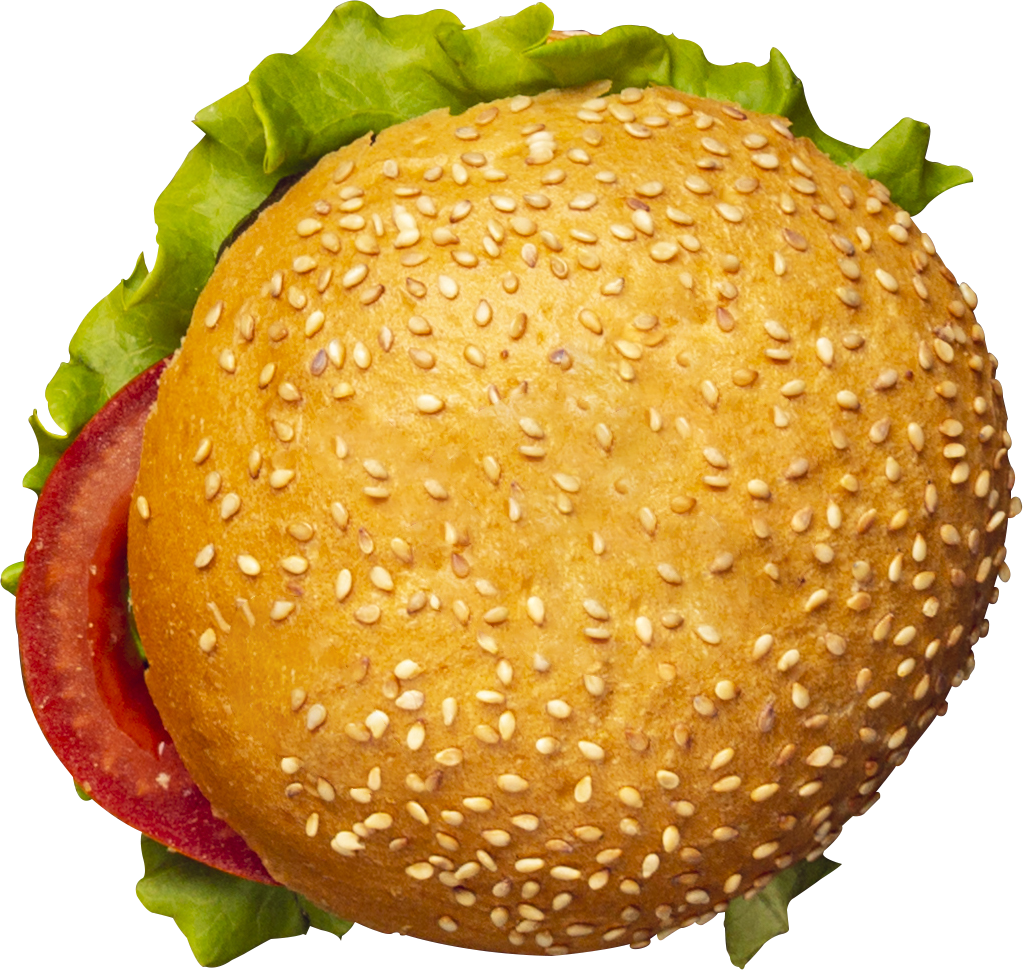
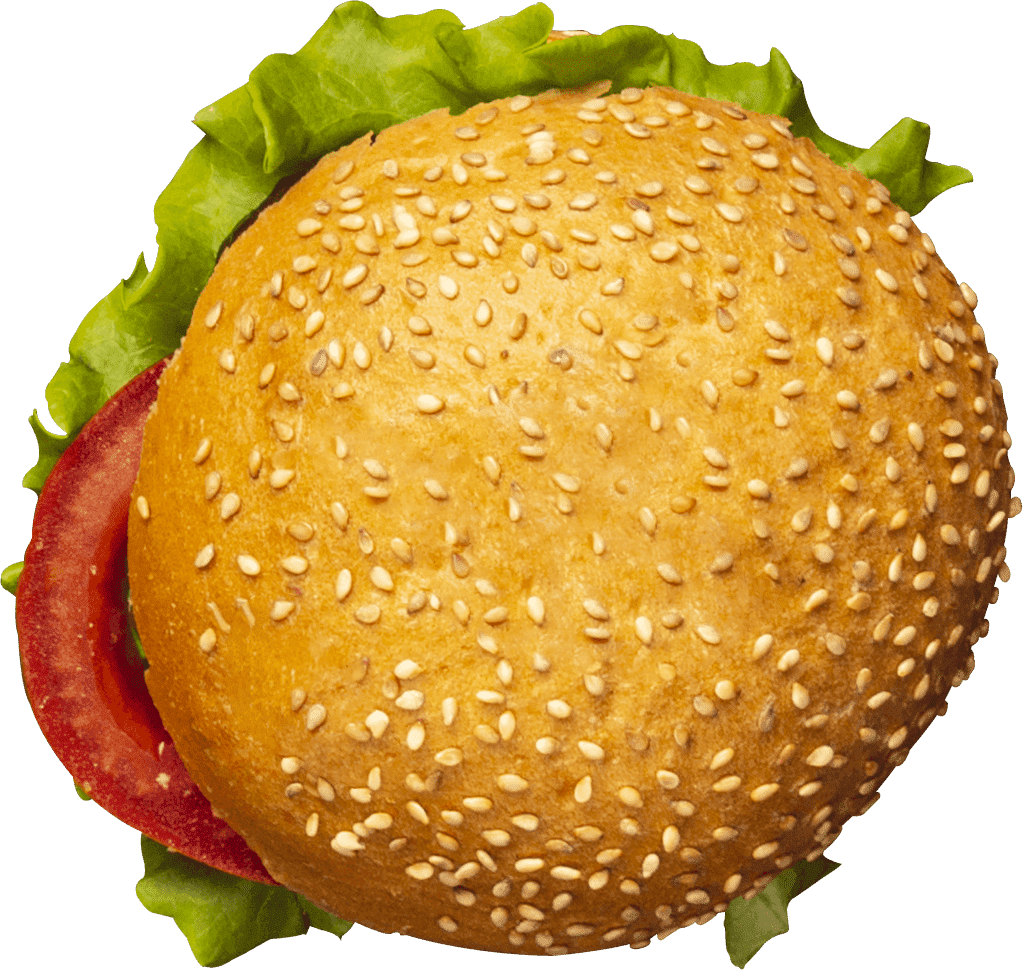
compress images

diff --git a/index.html b/index.html
@@ -5,7 +5,8 @@
     <meta name="viewport" content="width=device-width, initial-scale=1.0">
     <title>American-food</title>
 
-    <link rel="stylesheet" href="https://unpkg.com/aos@next/dist/aos.css" />
+    <!-- aos -->
+    <link rel="stylesheet" href="assets/css/aos.css">
     <!-- fontawesome -->
     <link rel="stylesheet" href="assets/fontawesome/css/all.min.css">
 
@@ -315,7 +316,7 @@
     </div>
 
 
-    <script src="https://unpkg.com/aos@next/dist/aos.js"></script>
+    <script src="assets/script/aos.js"></script>
     <script src="assets/script/main.js"></script>
 
 </body>
